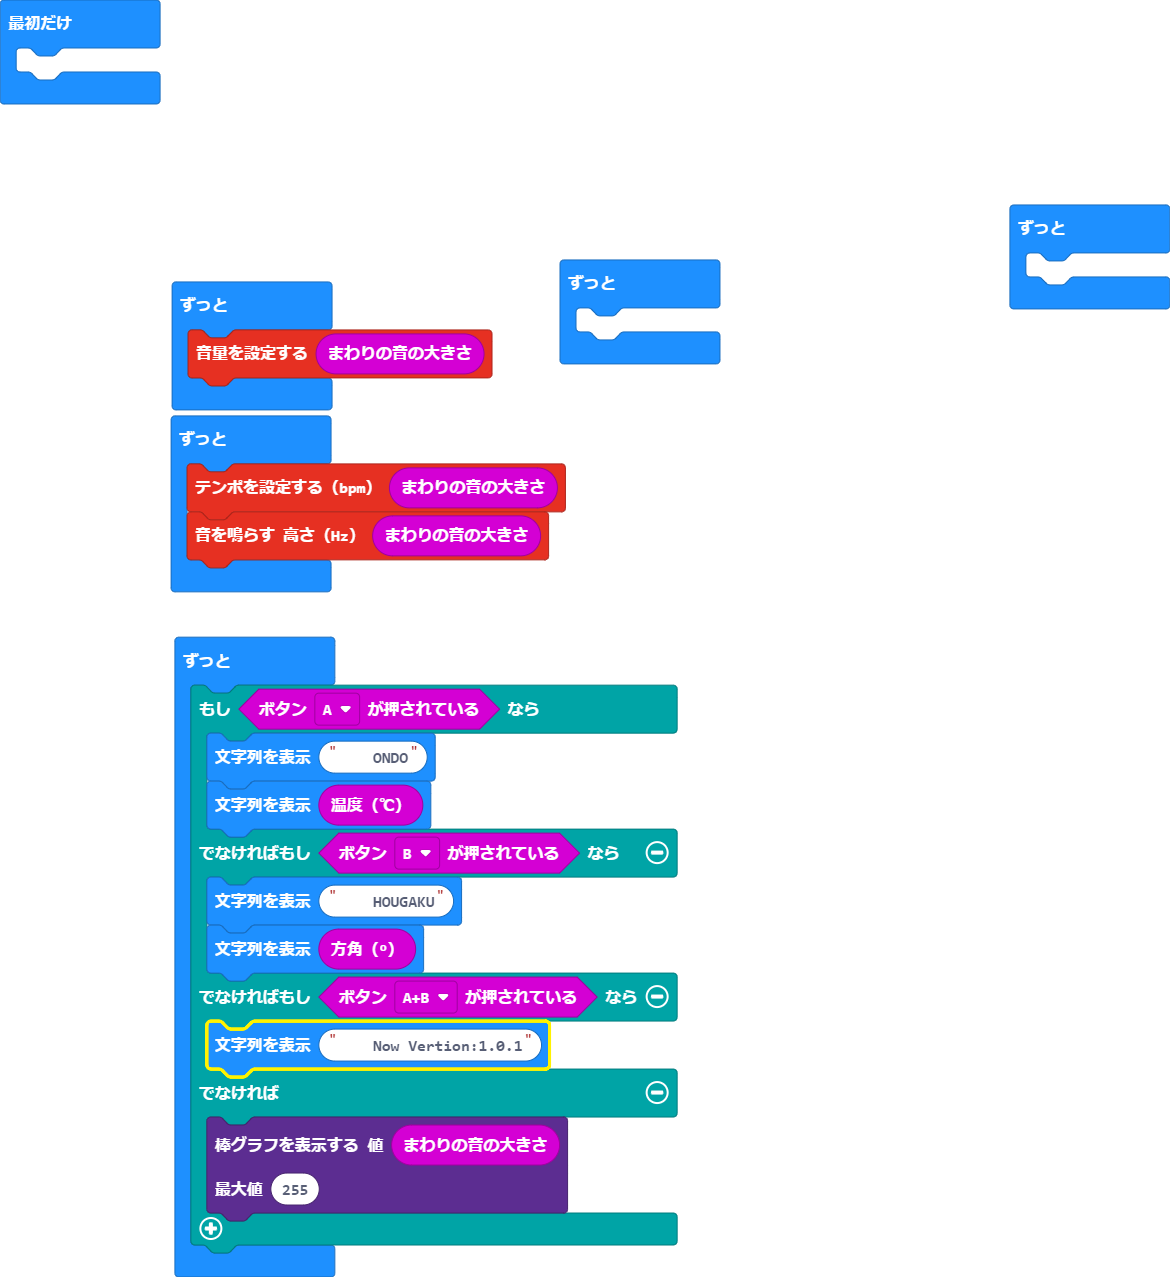
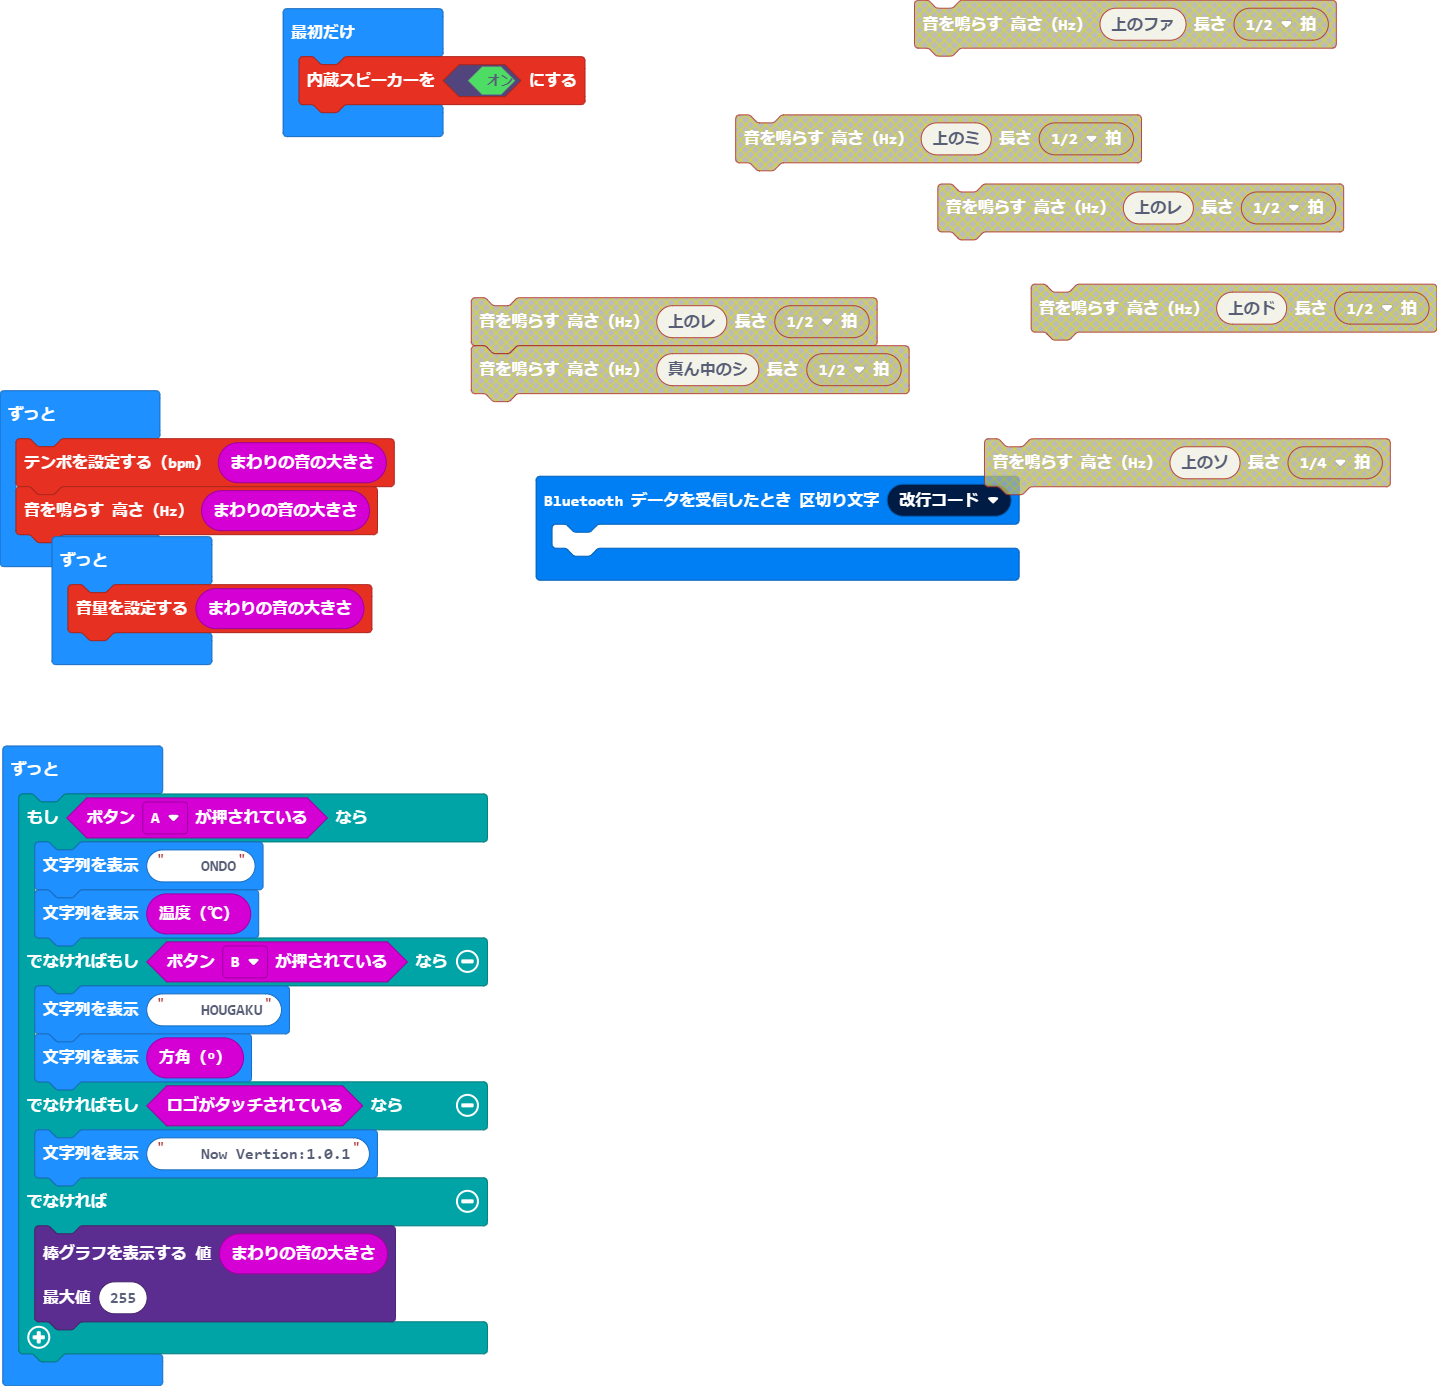
更新 main.blocks, main.ts

diff --git a/main.ts b/main.ts
@@ -1,15 +1,13 @@
-basic.forever(function () {
+bluetooth.onUartDataReceived(serial.delimiters(Delimiters.NewLine), function () {
 	
 })
-basic.forever(function () {
-	
-})
-basic.forever(function () {
-    music.setVolume(input.soundLevel())
-})
+music.setBuiltInSpeakerEnabled(true)
 basic.forever(function () {
     music.setTempo(input.soundLevel())
     music.ringTone(input.soundLevel())
+})
+basic.forever(function () {
+    music.setVolume(input.soundLevel())
 })
 basic.forever(function () {
     if (input.buttonIsPressed(Button.A)) {
@@ -18,7 +16,7 @@ basic.forever(function () {
     } else if (input.buttonIsPressed(Button.B)) {
         basic.showString("    HOUGAKU")
         basic.showString("" + (input.compassHeading()))
-    } else if (input.buttonIsPressed(Button.AB)) {
+    } else if (input.logoIsPressed()) {
         basic.showString("    Now Vertion:1.0.1")
     } else {
         led.plotBarGraph(
